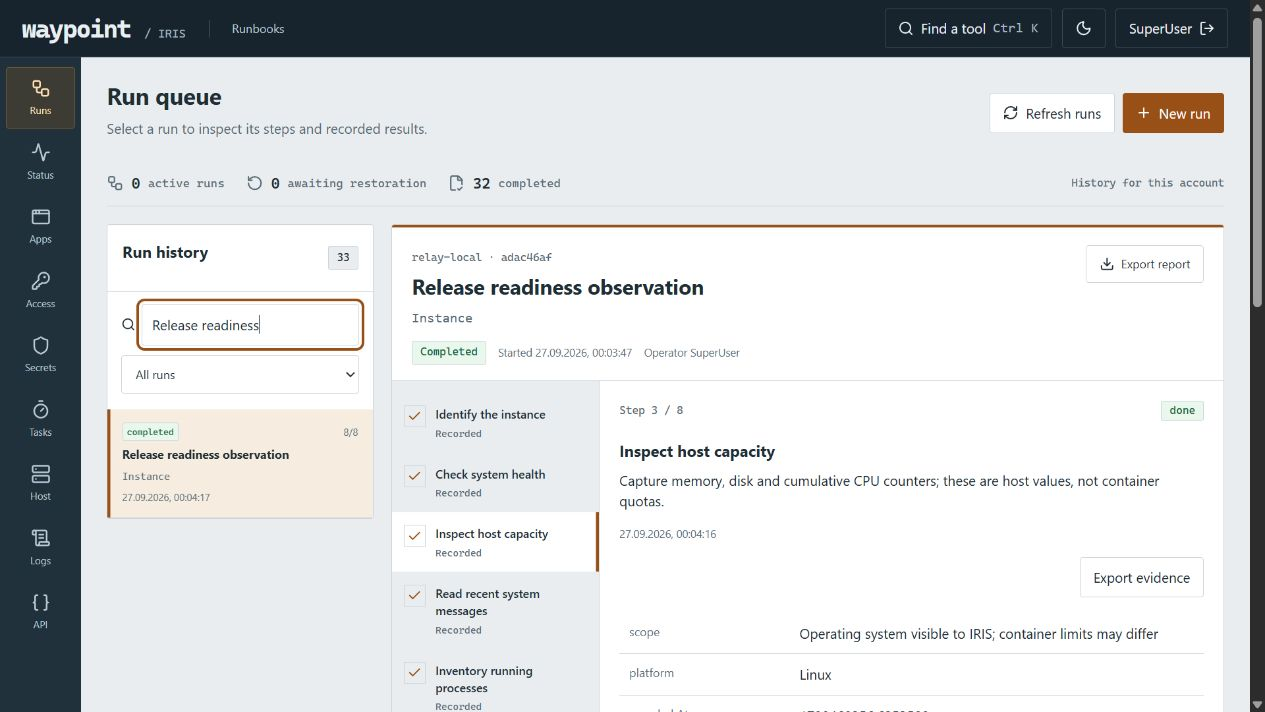
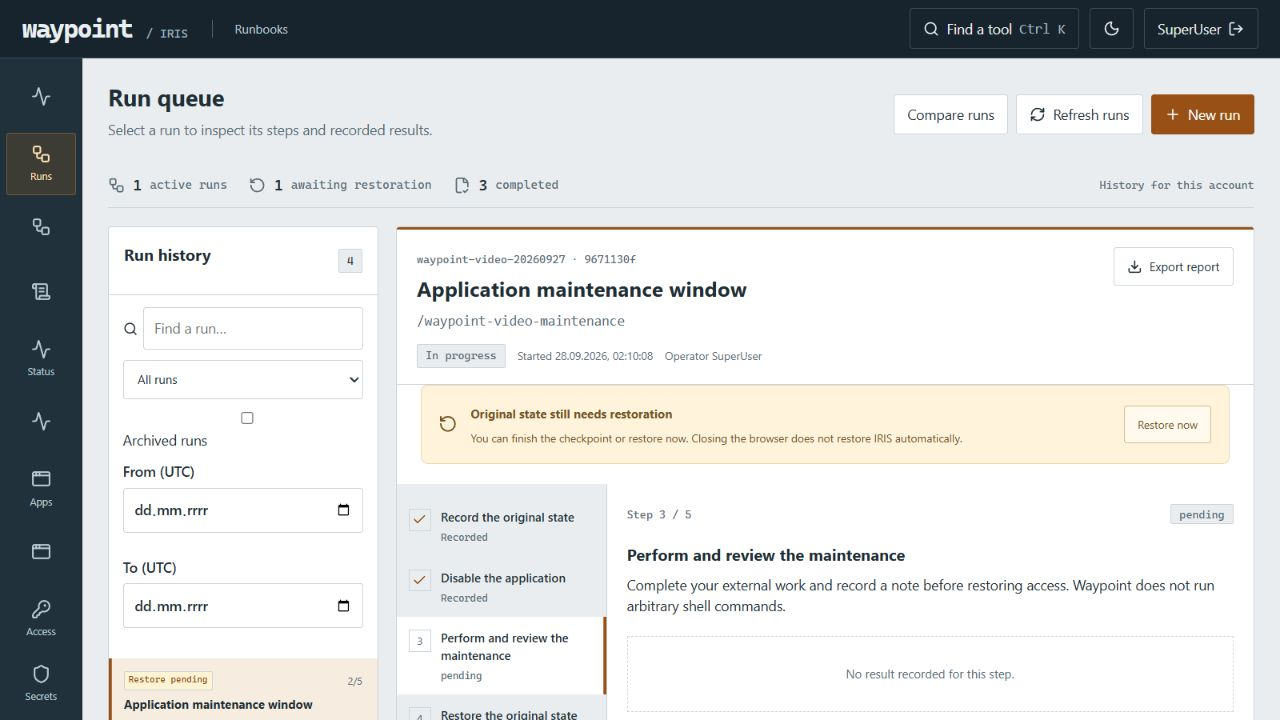
Show retained restoration obligation in project overview

diff --git a/README.md b/README.md
@@ -4,7 +4,7 @@ Waypoint guides maintenance procedures in InterSystems IRIS. Run observations on
 
 Built for the [InterSystems Programming Contest: Build Your Own Management Portal](https://community.intersystems.com/post/intersystems-programming-contest-build-your-own-management-portal).
 
-![Waypoint connected to a real IRIS Community instance](docs/images/overview.png)
+![Waypoint keeps the pending restoration visible after reopening a maintenance run](docs/images/overview.png)
 
 [Watch a maintenance and restoration run (MP4, 1:00)](https://github.com/Igorandor/waypoint/releases/download/v1.0.0/waypoint-walkthrough.mp4). The recording uses a temporary demonstration route and verifies that its original state is restored. [Release downloads](https://github.com/Igorandor/waypoint/releases/tag/v1.0.0) include the source package, English captions and transcript.
 
